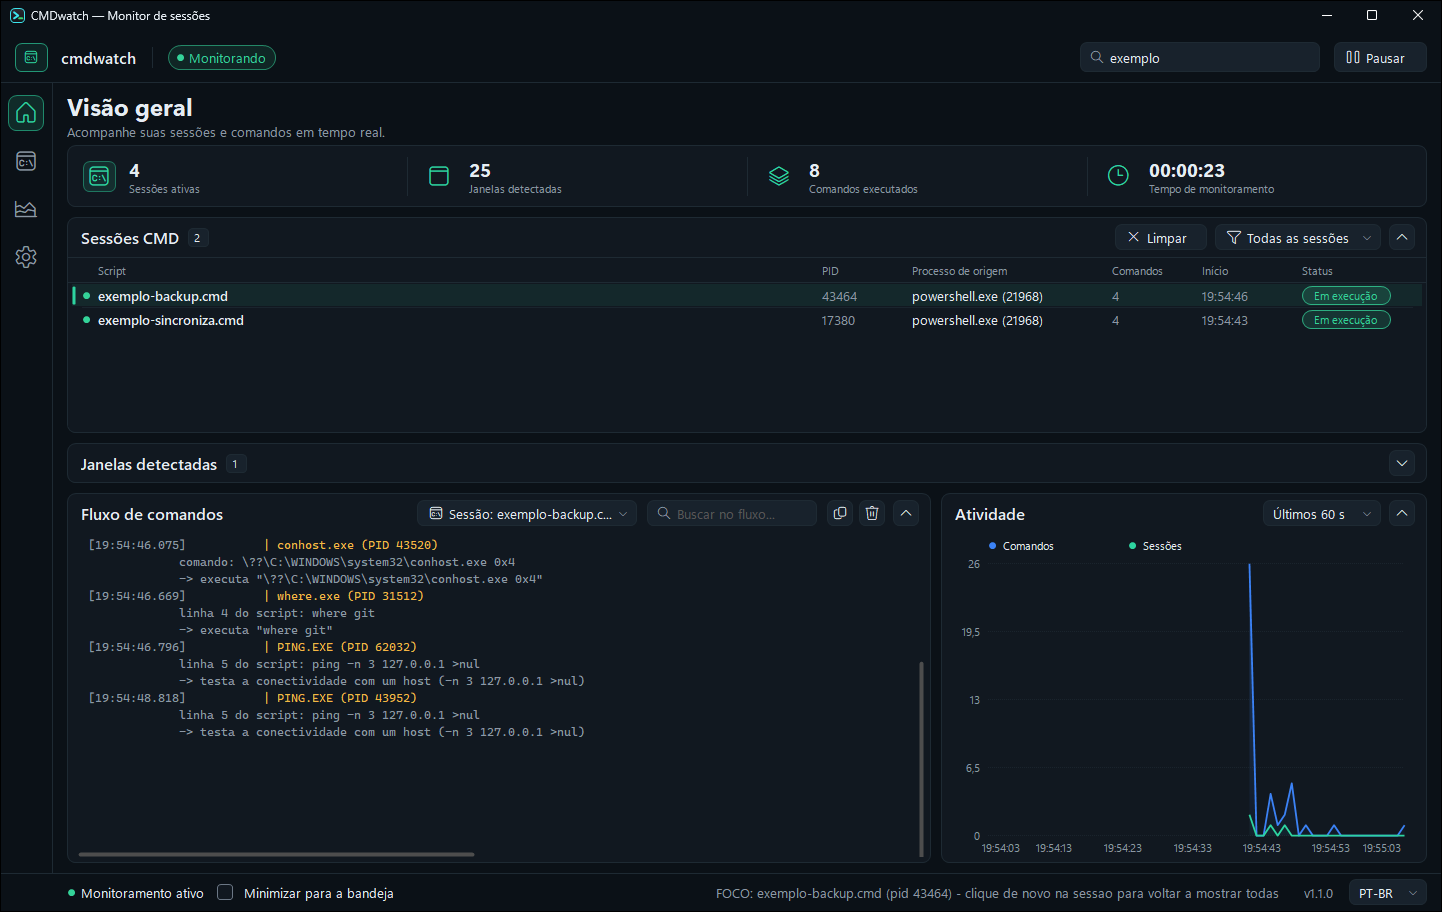
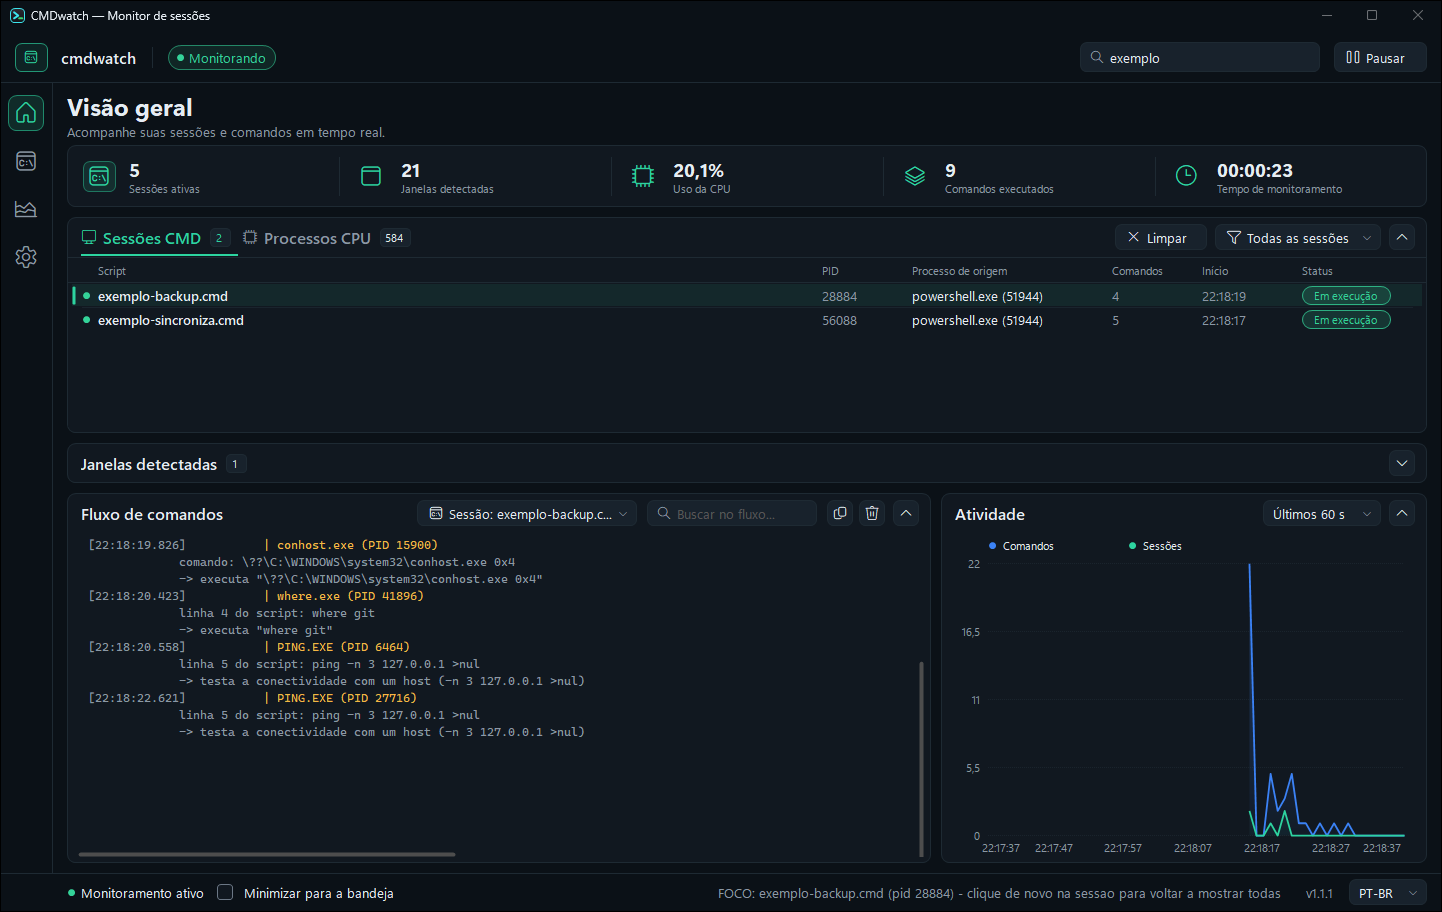
docs: documenta a aba "Processos CPU" e regenera as capturas do README
- nova secao nos dois READMEs (pt-BR e en) com a aba, as colunas, o painel de
  detalhe, como os numeros sao calculados e as limitacoes honestas
- o README em ingles ganhou tambem as correcoes da v1.1.1, que so existiam em
  portugues
- bullet de recurso novo, CpuSampler no diagrama de arquitetura, badge de
  tamanho e link de download atualizados (v1.1.0 -> v1.1.1)
- capturas regeneradas com a interface nova (5 KPIs, abas no cartao de sessoes)
  e nova imagem da aba "Processos CPU"
- tools/captura-readme.ps1: captura a aba de CPU com um processo de carga
  controlado (sem vazar processos reais da maquina), corrige o Add-Type que
  nao compilava (faltava using System.Text) e trava o recorte da janela

diff --git a/README.md b/README.md
@@ -7,7 +7,7 @@
 [![Platform](https://img.shields.io/badge/Platform-Windows%2010%20%7C%2011-0078D6.svg?style=flat&logo=windows)](https://microsoft.com/windows)
 [![Runtime](https://img.shields.io/badge/Runtime-.NET%20Framework%204.8%20(Built--in)-512BD4.svg?style=flat&logo=dotnet)](https://dotnet.microsoft.com)
 [![Language](https://img.shields.io/badge/Language-C%23-239120.svg?style=flat&logo=csharp)](https://docs.microsoft.com/dotnet/csharp/)
-[![Binary](https://img.shields.io/badge/Binary-Single%20EXE%20(~580KB)%20%7C%20Portable-success.svg?style=flat)](https://github.com/dellanio/cmdwatch/releases)
+[![Binary](https://img.shields.io/badge/Binary-Single%20EXE%20(~600KB)%20%7C%20Portable-success.svg?style=flat)](https://github.com/dellanio/cmdwatch/releases)
 [![Privileges](https://img.shields.io/badge/Privileges-No%20Admin%20Required-blue.svg?style=flat)](https://github.com/dellanio/cmdwatch)
 [![License](https://img.shields.io/badge/License-MIT-green.svg?style=flat)](LICENSE)
 
@@ -45,6 +45,14 @@
       </td>
       <td align="center">
         <img src="docs/recolhido.png" alt="Collapsible Cards" width="380" />
+      </td>
+    </tr>
+    <tr>
+      <td align="center" colspan="2"><b>"CPU Processes" tab: a live picture of the machine, list + detail</b></td>
+    </tr>
+    <tr>
+      <td align="center" colspan="2">
+        <img src="docs/processos-cpu.png" alt="CPU Processes Tab" width="820" />
       </td>
     </tr>
   </table>
@@ -89,6 +97,7 @@ With the widespread adoption of **autonomous AI agents, background automation sc
   - *ETW Kernel Mode (with Admin):* Intercepts kernel trace events in real time without missing short-lived scripts (< 25 ms).
 - 🔒 **Active Secret Masking:** Automatically redacts tokens, passwords, API keys, `Authorization: Bearer` headers, and AWS credentials before saving to logs or rendering on screen.
 - 🛑 **Safe Process Tree Termination (PID Reuse Guard):** Safely terminates runaway scripts and child process trees directly from the UI, with strict creation timestamp verification (`GetProcessTimes`) preventing accidental termination of recycled PIDs.
+- 🖥 **Live CPU & Process Inspector:** a second tab inside the sessions card lists every process on the machine with its CPU share, private memory, thread count and start time, next to a detail pane with the owner, session, command line and ancestry chain. The numbers come from the kernel snapshot, at no extra read cost.
 - 🎨 **Custom Neon UI:** Lightweight GDI+ rendering with Dark and Light themes, real-time search, sortable columns, and background minimization to the Windows System Tray.
 
 ---
@@ -112,6 +121,7 @@ flowchart TD
         AST["Batch AST & Call Tree Resolver"]
         Masker["Mascara (Secrets Sanitizer)"]
         SafeKill["ProcessControl (PID + Timestamp Guard)"]
+        CpuSampler["CpuSampler (kernel snapshot, 1.5 s)"]
     end
 
     subgraph Output ["User Interfaces & Storage"]
@@ -121,12 +131,14 @@ flowchart TD
     end
 
     ProcLife --> EngineChoice
+    ProcLife --> CpuSampler
     EngineChoice -->|"Admin"| EtwEng
     EngineChoice -->|"Standard"| PollEng
     PollEng & EtwEng --> PEBReader
     WinEvents & Terminals --> WinWatcher
     PEBReader & WinWatcher --> AST
     AST --> Masker
+    CpuSampler --> Masker
     Masker --> GUI
     Masker --> CLI
     Masker --> JSONL
@@ -144,7 +156,7 @@ flowchart TD
 
 Download the pre-compiled binary:
 
-**[⬇ Download cmdwatch v1.1.0 — cmdwatch.exe](https://github.com/dellanio/cmdwatch/releases/latest/download/cmdwatch.exe)**
+**[⬇ Download cmdwatch v1.1.1 — cmdwatch.exe](https://github.com/dellanio/cmdwatch/releases/latest/download/cmdwatch.exe)**
 
 ### Launching the Graphical Dashboard
 Simply **double-click** `cmdwatch.exe` or execute from any terminal:
@@ -189,6 +201,74 @@ cmdwatch.exe trace script.cmd
 | **polling** *(default)* | Standard User | Everyday development | Uses `CreateToolhelp32Snapshot` and `SystemProcessInformation`. Adaptive intervals: 500 ms (idle), 50 ms (active). |
 | **etw** | Administrator | Ultra-short scripts (< 50 ms) | Creates a dedicated Event Tracing for Windows session (`CMDWatcher-Processos`). Kernel passes process command-lines directly in the event payload. |
 | **wmi** | Administrator | Alternate diagnostics | Listens to `Win32_ProcessStartTrace` events. |
+
+---
+
+## 🖥 The "CPU Processes" Tab
+
+The **CMD Sessions** card became a two-tab card: **CMD Sessions** (unchanged behavior) and
+**CPU Processes**, which shows a live picture of the machine. The KPI strip gains a fifth card,
+**CPU usage**, with the machine-wide total in real time.
+
+![CPU Processes tab](docs/processos-cpu.png)
+
+**The list (62% of the card)** has one row per process:
+
+| Column | Source |
+|---|---|
+| **PID** | from the kernel snapshot |
+| **Process** | executable name |
+| **CPU** | share of the whole machine right now, with a bar |
+| **Private mem** | private working set (see the caveat below) |
+| **Threads** | thread count |
+| **Started** | process creation time |
+| **Command** | command line (with the secret masker applied) |
+
+Clicking a header sorts by that column; the top search box filters the list.
+
+**The detail pane (38% of the card)** shows, for the selected process: PID and name, an **elevated**
+pill when the process runs with high integrity, the **user** who owns it, the **session**, the
+**start time** and how long it has been alive, **instant and average CPU**, **memory** and
+**threads**, the **executable**, the **command line** wrapped over several lines, and the
+**ancestry chain** (who called whom).
+
+### How the numbers are computed
+
+The kernel snapshot (`NtQuerySystemInformation`) already returns, in the same buffer and at **no
+extra read cost**, the accumulated CPU time, the memory, the thread count and the creation time of
+every process. The panel compares two snapshots (one every 1.5 s, on its own thread, which does not
+disturb the event engine) and turns the difference in CPU time into a percentage:
+
+- the percentage is **normalized by the number of cores** (0–100%): the sum of all processes equals the machine total (measured: 21.6% of the processes = 21.6% of the machine);
+- the **machine total** leaves out the idle process (PID 0);
+- the **average** is computed separately, over the whole life of the process;
+- the **command line** is only read for the top 40 processes (each read is a PEB call).
+
+### Honest limitations
+
+- **Memory is the *private working set***, not total RSS — the kernel snapshot does not carry the raw working set. That is why the column reads "Private mem" (a shared `svchost.exe` shows only a few KB).
+- The percentage is **of the whole machine**, not of a single core: 6% means 6% of all 16 cores together.
+- **Working directory and environment variables are not read**: they require `PROCESS_VM_READ` and fail on elevated processes.
+- **User and integrity level** come from the process token, read once per process (the token does not change while it lives); protected processes may not answer.
+- The list shows **every** process on the machine (500+ in normal use); the snapshot costs a few milliseconds.
+
+---
+
+## 🐛 v1.1.1 fixes (field test of v1.1.0)
+
+Four defects found during the field test, all measured before being fixed:
+
+| Defect | Measured cause | Fix |
+|---|---|---|
+| **Elevated processes went missing from the log** | the limited query called a function name that does not exist in `ntdll.dll`; the error was swallowed by a `catch` and the read fell back to the PEB — which an elevated process blocks | correct `EntryPoint`: the query now reads the command line of elevated processes (measured: **6 of 6** high-integrity processes; the `Higiene-Remocao` scheduled task, which runs as administrator, was captured live with the elevated command line) |
+| **The window showed the program, not who called it** | the author was picked as the **most recent** console client (the transient `git.exe`) | the author is now the **nearest ancestor inside the console, excluding the root**: in a `cmd.exe → python.exe → git.exe` chain the author is the `python.exe` (the caller), and the `git.exe` is recorded as the *program* in execution (the `program` field) |
+| **A hidden window turned into "closed"** | for some windows of another process the cross-process query **does not answer** (empty class, handle outside the enumeration) — **while the window owner sees it normally**; cmdwatch concluded it "died" | the destroy event no longer closes anything (it only flags); the sweep closes only after **two consecutive sweeps** of absence and, while the **owning process** is alive, waits 30 s. Measured: hiding → `window_hide` with `closed=false`, and the window **does not** come back as a new window |
+| **`sessionId` coming out as 59133952** | the field was read at the wrong offset (`0x68` = `UniqueProcessKey`) | corrected to `0x64`, measured across 859 records on this machine |
+
+**Honest limitation:** when a window does not answer the cross-process query, cmdwatch **cannot see it
+again** — it stays registered as *hidden* instead of returning to "visible". And a `.cmd` with **no
+window at all** (`CreateNoWindow`) that lives for ~90 ms still depends on the engine interval (in the
+slow 500 ms regime: 0/6 to 2/8; with `--interval 50`: 4/6 to 8/8).
 
 ---
 

diff --git a/README.pt-BR.md b/README.pt-BR.md
@@ -7,7 +7,7 @@
 [![Plataforma](https://img.shields.io/badge/Plataforma-Windows%2010%20%7C%2011-0078D6.svg?style=flat&logo=windows)](https://microsoft.com/windows)
 [![Runtime](https://img.shields.io/badge/Runtime-.NET%20Framework%204.8%20(Nativo)-512BD4.svg?style=flat&logo=dotnet)](https://dotnet.microsoft.com)
 [![Linguagem](https://img.shields.io/badge/Linguagem-C%23-239120.svg?style=flat&logo=csharp)](https://docs.microsoft.com/dotnet/csharp/)
-[![Binário](https://img.shields.io/badge/Binário-EXE%20Único%20(~580KB)%20%7C%20Portátil-success.svg?style=flat)](https://github.com/dellanio/cmdwatch/releases)
+[![Binário](https://img.shields.io/badge/Binário-EXE%20Único%20(~600KB)%20%7C%20Portátil-success.svg?style=flat)](https://github.com/dellanio/cmdwatch/releases)
 [![Privilégios](https://img.shields.io/badge/Privilégios-Sem%20Admin%20Obrigatório-blue.svg?style=flat)](https://github.com/dellanio/cmdwatch)
 [![Licença](https://img.shields.io/badge/Licença-MIT-green.svg?style=flat)](LICENSE)
 
@@ -45,6 +45,14 @@
       </td>
       <td align="center">
         <img src="docs/recolhido.png" alt="Cartões Recolhidos" width="380" />
+      </td>
+    </tr>
+    <tr>
+      <td align="center" colspan="2"><b>Aba "Processos CPU": retrato ao vivo da máquina, com lista e detalhe</b></td>
+    </tr>
+    <tr>
+      <td align="center" colspan="2">
+        <img src="docs/processos-cpu.png" alt="Aba Processos CPU" width="820" />
       </td>
     </tr>
   </table>
@@ -89,6 +97,7 @@ O **CMDWatcher** (`cmdwatch`) é um monitor leve e sem dependências para Window
   - *Modo ETW (Kernel Trace):* Com privilégio de Administrador, escuta eventos em tempo real do kernel do Windows sem perder scripts ultracurtos (~25 ms).
 - 🔒 **Máscara Automática de Segredos:** Sanitiza tokens, senhas, chaves de API, cabeçalhos `Bearer` e credenciais AWS antes de gravar em disco ou renderizar na tela.
 - 🛑 **Encerramento Seguro contra Colisão de PID:** Permite encerrar scripts e árvores de processos pela UI com verificação rigorosa de data/hora de criação do PID (`GetProcessTimes`), impedindo matar processos reciclados.
+- 🖥 **Inspetor de CPU e Processos ao Vivo:** uma segunda aba dentro do cartão de sessões lista todos os processos da máquina com consumo de CPU, memória privada, threads e hora de início, ao lado de um painel de detalhe com dono, sessão, linha de comando e cadeia de ancestrais. Os números saem do retrato do kernel, sem custo extra de leitura.
 - 🎨 **Interface Neon Customizada:** Construída em GDI+ puro sem frameworks pesados, com suporte a tema escuro/claro, busca em tempo real, ordenação de colunas e minimização para a Área de Notificação (Tray).
 
 ---
@@ -112,6 +121,7 @@ flowchart TD
         AST["Batch AST & Call Tree Resolver"]
         Masker["Mascara (Sanitizador de Credenciais)"]
         SafeKill["ProcessControl (Validação de PID via GetProcessTimes)"]
+        CpuSampler["CpuSampler (retrato do kernel, 1,5 s)"]
     end
 
     subgraph Output ["Interfaces do Usuário"]
@@ -121,12 +131,14 @@ flowchart TD
     end
 
     ProcLife --> EngineChoice
+    ProcLife --> CpuSampler
     EngineChoice -->|"Admin"| EtwEng
     EngineChoice -->|"Padrão"| PollEng
     PollEng & EtwEng --> PEBReader
     WinEvents & Terminals --> WinWatcher
     PEBReader & WinWatcher --> AST
     AST --> Masker
+    CpuSampler --> Masker
     Masker --> GUI
     Masker --> CLI
     Masker --> JSONL
@@ -144,7 +156,7 @@ flowchart TD
 
 Baixe o executável pronto para uso:
 
-**[⬇ Baixar cmdwatch v1.1.0 — cmdwatch.exe](https://github.com/dellanio/cmdwatch/releases/latest/download/cmdwatch.exe)**
+**[⬇ Baixar cmdwatch v1.1.1 — cmdwatch.exe](https://github.com/dellanio/cmdwatch/releases/latest/download/cmdwatch.exe)**
 
 ### Abrir o Painel Gráfico
 Dê **duplo clique** no `cmdwatch.exe` ou execute via terminal:
@@ -189,6 +201,56 @@ cmdwatch.exe trace script.cmd
 | **polling** *(padrão)* | Usuário Comum | Uso diário geral | Consulta snapshots de processos pelo `CreateToolhelp32Snapshot` e `SystemProcessInformation`. Intervalo dinâmico de 500 ms (repouso) e 50 ms (atividade). |
 | **etw** | Administrador | Scripts ultracurtos (< 50 ms) | Cria uma sessão dedicada no Event Tracing for Windows (`CMDWatcher-Processos`). O kernel entrega a linha de comando direto no payload do evento, sem perdas. |
 | **wmi** | Administrador | Diagnóstico alternativo | Escuta `Win32_ProcessStartTrace`. |
+
+---
+
+## 🖥 Aba "Processos CPU"
+
+O cartão **Sessões CMD** virou um cartão com duas abas: **Sessões CMD** (o comportamento de sempre) e
+**Processos CPU**, que mostra a fotografia viva da máquina. Na barra de indicadores aparece um quinto
+card, **Uso da CPU**, com o total da máquina em tempo real.
+
+![Aba Processos CPU](docs/processos-cpu.png)
+
+**A lista (62% do cartão)** traz uma linha por processo:
+
+| Coluna | Origem |
+|---|---|
+| **PID** | do retrato do kernel |
+| **Processo** | nome do executável |
+| **CPU** | % do total da máquina neste instante, com barra |
+| **Mem. privada** | working set privado (veja a ressalva abaixo) |
+| **Threads** | número de threads do processo |
+| **Início** | hora em que o processo nasceu |
+| **Comando** | linha de comando (com a máscara de segredos aplicada) |
+
+Clicar no cabeçalho ordena pela coluna; a busca da barra superior filtra a lista.
+
+**O painel de detalhe (38% do cartão)** mostra, do processo escolhido: PID e nome, a pílula
+**elevado** quando o processo roda com integridade alta, o **usuário** dono do processo, a **sessão**,
+o **início** e há quanto tempo está vivo, a **CPU instantânea e a média** desde o início, a
+**memória** e os **threads**, o **executável**, a **linha de comando** quebrada em várias linhas e a
+**cadeia de ancestrais** (quem chamou quem).
+
+### Como os números são calculados
+
+O retrato do kernel (`NtQuerySystemInformation`) já devolve, no mesmo buffer e **sem custo extra de
+leitura**, o tempo de CPU acumulado, a memória, o número de threads e a hora de criação de cada
+processo. O painel compara dois retratos (um a cada 1,5 s, numa thread própria que não interfere no
+motor de eventos) e a diferença do tempo de CPU vira o percentual:
+
+- o percentual é **normalizado pelo total de núcleos** (0–100%): a soma dos processos dá o total da máquina (medido: 21,6% dos processos = 21,6% da máquina);
+- o **total da máquina** deixa de fora o processo ocioso (PID 0);
+- a **média** é calculada à parte, sobre toda a vida do processo;
+- a **linha de comando** só é lida para os 40 processos do topo (cada leitura é uma chamada ao PEB).
+
+### Limitações honestas
+
+- **Memória é o *working set privado***, não o RSS total — o retrato do kernel não traz o working set bruto. Por isso a coluna se chama "Mem. privada" (um `svchost.exe` compartilhado aparece com poucos KB).
+- O percentual é **do total da máquina**, não de um núcleo: 6% significa 6% dos 16 núcleos somados.
+- **Diretório de trabalho e variáveis de ambiente não são lidos**: exigem `PROCESS_VM_READ` e falham em processo elevado.
+- **Usuário e integridade** vêm do token do processo, lidos uma vez por processo (o token não muda enquanto ele viver); processos protegidos podem não responder.
+- A lista mostra **todos** os processos da máquina (mais de 500 em uso comum); o custo do retrato é de poucos milissegundos.
 
 ---
 
